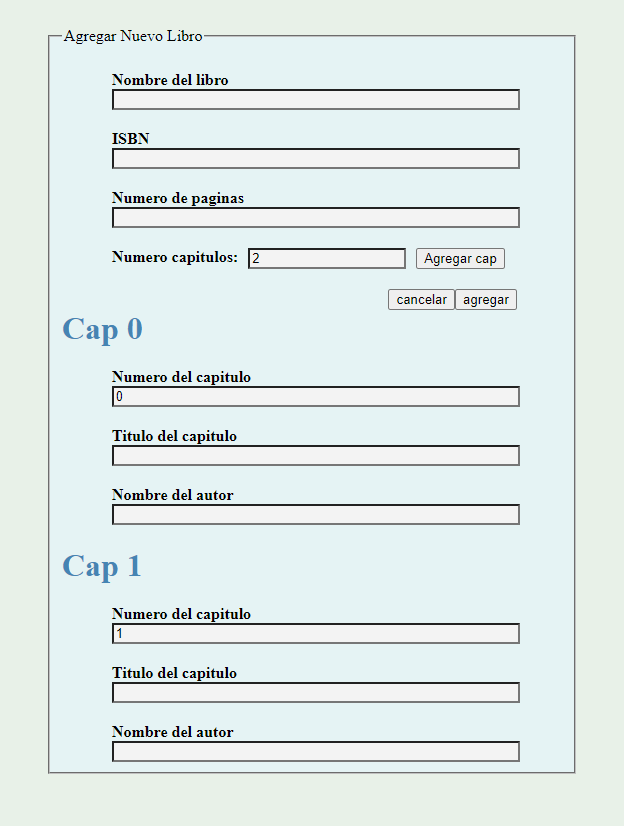
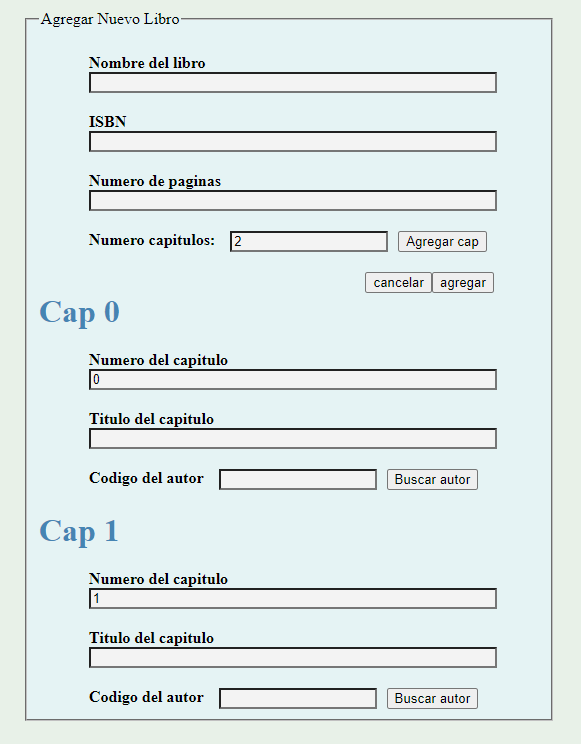
Agregacion de AJAX para agregar autor en capitulo

Changed region(s): [[0.031, 0.0, 0.8675, 0.9583], [0.8985, 0.0309, 0.9604, 0.9583]]

diff --git a/javascript/agregarlibro.js b/javascript/agregarlibro.js
@@ -24,6 +24,34 @@ function capitulos() {
     return false;
 }
 
+function autor(autorcod, divautor, cont) {
+    //console.log(autorcod.value);
+    var codautor = document.getElementById(autorcod).value;
+    if (codautor == "") {
+        document.getElementById(divautor).innerHTML = "";
+    } else {
+        if (window.XMLHttpRequest) {
+            // code for IE7+, Firefox, Chrome, Opera, Safari
+            xmlhttp = new XMLHttpRequest();
+        } else {
+            // code for IE6, IE5
+            xmlhttp = new ActiveXObject("Microsoft.XMLHTTP");
+        }
+        xmlhttp.onreadystatechange = function() {
+        if (this.readyState == 4 && this.status == 200) {
+            //alert("llegue");
+            document.getElementById(divautor).innerHTML = this.responseText;
+        }
+    };
+    console.log(codautor);
+    xmlhttp.open("GET","../controladores/ajaxautor.php?autor="+codautor+"&cont="+cont,true);
+    xmlhttp.send();
+    }
+
+    return false;
+}
+
+
 
 function noLetras(texto, max){
     if(texto.value.length >0){

diff --git a/vista/agregarlibro.html b/vista/agregarlibro.html
@@ -20,9 +20,10 @@
         <label>Numero de paginas</label>
         <input type="text" id="npaginas" name="npaginas" onkeyup="return noLetras(this, 4)">
         <div class="separador"></div>
-        <label id="lncap">Numero capitulos:</label>
-        <input type="text" id="ncap" name="ncap">
-        <input type="button" id="agcap" name="agcap" value="Agregar cap" onclick="return capitulos()">
+        <label id="lncap" class="mlinea1">Numero capitulos:</label>
+        <input type="text" class="mlinea2" id="ncap" name="ncap" onkeyup="return noLetras(this, 3)">
+        <!--input type="text" id="ncap" name="ncap" class="mlinea1"/-->
+        <input type="button" id="agcap" name="agcap" class="mlinea1" value="Agregar cap" onclick="return capitulos()">
         <div class="separador"></div>
         <input type="submit" id="agregar" name="agregar" value="agregar">
         <input type="button" id="cancelar" name="cancelar" value="cancelar" onclick="location.href='index.html'">

diff --git a/css/agregarlibro.css b/css/agregarlibro.css
@@ -58,12 +58,14 @@ div{
     margin-left: 0px;
 }
 
-#lncap ,#ncap, #agcap{
+.mlinea1, .mlinea2{
     float: left;
-    margin-top: 20px;
-    margin-right: 10px;
+    margin-top: 20px !important;
+    margin-right: 10px !important;
 }
 
-#ncap{
-    width: 30%;
+
+.mlinea2{
+    width: 30% !important;
+    margin-left: 1% !important;
 }

diff --git a/controladores/bd_agregar_libro.php b/controladores/bd_agregar_libro.php
@@ -29,7 +29,7 @@
         }
         while($aux<$cont){
             $autor = isset($_POST["aut$aux"]) ? mb_strtoupper(trim($_POST["aut$aux"]), 'UTF-8') : null;
-            $sql0 = "SELECT aut_id FROM autor WHERE aut_nombre='$autor'";
+            $sql0 = "SELECT aut_id FROM autor WHERE aut_id='$autor'";
             $result0 = $conn->query($sql0);
             $aux = $aux +1;
             if($result0->num_rows==0){
@@ -58,20 +58,20 @@
                 while($aux2<$cont){
                     
                     $autor = isset($_POST["aut$aux2"]) ? mb_strtoupper(trim($_POST["aut$aux2"]), 'UTF-8') : null;
-                    $sql3 = "SELECT aut_id FROM autor WHERE aut_nombre='$autor'";
+                    /*$sql3 = "SELECT aut_id FROM autor WHERE aut_nombre='$autor'";
                     $result3 = $conn->query($sql3);
-        
+                    
                     if($result3->num_rows>0){
                         while($row = $result3->fetch_assoc()) {
                             $idaut = $row["aut_id"];
                         }
-                    }
+                    }*/
                     
                     $capnum = isset($_POST["num$aux2"]) ? trim($_POST["num$aux2"]) : null;
                     $captit = isset($_POST["tit$aux2"]) ? mb_strtoupper(trim($_POST["tit$aux2"]), 'UTF-8') : null;
                     echo "<p>si</p>";
-                    echo "<p>$capnum  $captit  $idlib  $idaut $autor</p>";
-                    $sql4 = "INSERT INTO capitulo VALUES (0, $capnum, '$captit', $idlib, $idaut)";
+                    echo "<p>$capnum  $captit  $idlib  $autor $autor</p>";
+                    $sql4 = "INSERT INTO capitulo VALUES (0, $capnum, '$captit', $idlib, $autor)";
                     $conn->query($sql4);
                         
                     

diff --git a/controladores/agregarcap.php b/controladores/agregarcap.php
@@ -13,8 +13,10 @@
                 <input type='text' id='num$cont' name='num$cont' value='$cont' onkeyup='return noLetras(this, 2)'/>
                 <label>Titulo del capitulo</label>
                 <input type='text' id='tit$cont' name='tit$cont' />
-                <label>Nombre del autor</label>
-                <input type='text' id='aut$cont' name='aut$cont' onkeyup='return noNumeros(this)'/>
+                <label class='mlinea1'>Codigo del autor</label>
+                <input type='text' id='aut$cont' name='aut$cont' class='mlinea2' onkeyup='return noLetras(this, 11)'/>
+                <input type='button' id='baut' name='baut' class='mlinea1' value='Buscar autor' onclick=\"return autor('aut$cont', 'divautor$cont', $cont)\"/>
+                <div id='divautor$cont'></div>
             ";
         $cont = $cont +1;
     }

diff --git a/controladores/ajaxautor.php b/controladores/ajaxautor.php
@@ -1,0 +1,29 @@
+<?php
+    include '../conexion/conexionBD.php';
+
+    $aut_id = $_GET["autor"];
+    $cont = $_GET["cont"];
+
+    $sql = "SELECT * FROM autor WHERE aut_id='$aut_id'";
+    $resultado = $conn->query($sql);
+    if($resultado->num_rows > 0){
+        while($row = $resultado->fetch_assoc()){
+            echo "
+            <label>Nombre del autor</label>
+            <input type='text' id='nom$cont' name='nom$cont' value='".$row['aut_nombre']."'/>
+            <label>Nacionalidad del autor</label>
+            <input type='text' id='nac$cont' name='nac$cont' value='".$row['aut_nacionalidad']."'/>
+        ";
+        }
+    }else{
+        echo "<tr>";
+        echo " <td colspan='7'> No existe un autor con ese codigo en el sistema </td>";
+        echo "</tr>";
+    }
+
+    
+        
+
+    $conn->close();
+
+?>

diff --git a/README.md b/README.md
@@ -41,6 +41,10 @@ Ademas, cuando se agregan capitulos, se usa AJAX para desplegar campos que permi
 
 ![img4](/imagenes/i4.png)
 
+Y como se ve, se debe ingresar el codigo de un autor, lo que permitira ver los datos del autor, esto se lo logro usando una vez mas AJAX, el resultado es el siguiente:
+
+![img4autores](/imagenes/i4autores.png)
+
 # Listar
 
 Para la pagina de listar libros se agregaron tablas que listan todos los libros ingresados en la base de datos, indicando los capitulos que tiene cada libro con su respectivo autor, la pagina queda de la siguinte forma:
